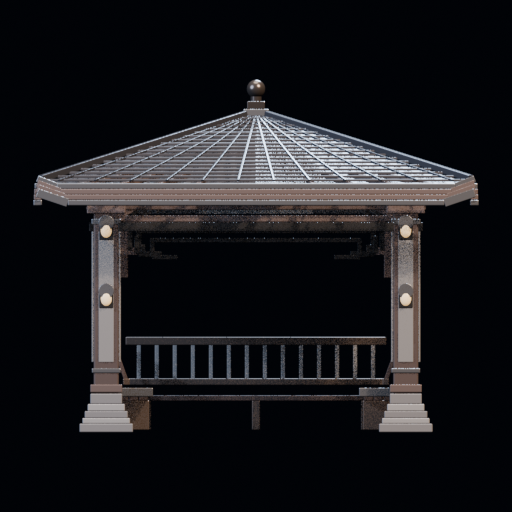
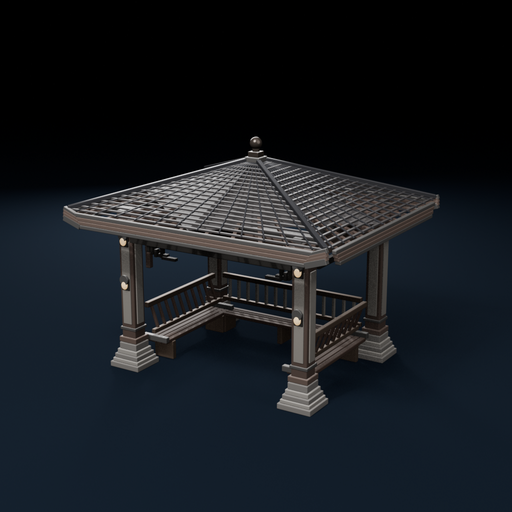
Update README and add new showcase images for enhanced representation
- Removed outdated showcase images for the Traditional Chinese Pavilion and Benben Robot.
- Added new showcase images for the City Bicycle, Quadcopter Drone, Spanish Colonial Townhouse, and Cozy Living Room.
- Revised layout in the README to accommodate new entries and improve visual clarity.

diff --git a/README.md b/README.md
@@ -48,28 +48,6 @@ compiled to a portable GLB by the ProcAgen3D pipeline.
       <strong>Audi Sport Quattro S1</strong>
     </td>
     <td align="center" width="33%">
-      <a href="assets/showcase/china-pavilion-reference.png">
-        <img src="assets/showcase/china-pavilion-reference.png" width="135" alt="Reference image of a traditional Chinese pavilion">
-      </a>
-      <a href="assets/showcase/china-pavilion.png">
-        <img src="assets/showcase/china-pavilion.png" width="135" alt="ProcAgen3D GLB render of a traditional Chinese pavilion">
-      </a><br>
-      <sub>Reference → ProcAgen3D GLB</sub><br>
-      <strong>Traditional Chinese Pavilion</strong>
-    </td>
-    <td align="center" width="33%">
-      <a href="assets/showcase/benben-robot-reference.png">
-        <img src="assets/showcase/benben-robot-reference.png" width="135" alt="Reference image of the Benben robot">
-      </a>
-      <a href="assets/showcase/benben-robot.png">
-        <img src="assets/showcase/benben-robot.png" width="135" alt="ProcAgen3D GLB render of the Benben robot">
-      </a><br>
-      <sub>Reference → ProcAgen3D GLB</sub><br>
-      <strong>Benben Robot</strong>
-    </td>
-  </tr>
-  <tr>
-    <td align="center" width="33%">
       <a href="assets/showcase/nissan-skyline-super-silhouette-reference.png">
         <img src="assets/showcase/nissan-skyline-super-silhouette-reference.png" width="135" alt="Reference image of a Nissan Skyline Super Silhouette race car">
       </a>
@@ -89,6 +67,8 @@ compiled to a portable GLB by the ProcAgen3D pipeline.
       <sub>Reference → ProcAgen3D GLB</sub><br>
       <strong>Pagani Huayra R</strong>
     </td>
+  </tr>
+  <tr>
     <td align="center" width="33%">
       <a href="assets/showcase/toyota-sr5-reference.png">
         <img src="assets/showcase/toyota-sr5-reference.png" width="135" alt="Reference image of a Toyota SR5 pickup with its hood open">
@@ -99,18 +79,6 @@ compiled to a portable GLB by the ProcAgen3D pipeline.
       <sub>Reference → ProcAgen3D GLB</sub><br>
       <strong>Toyota SR5</strong>
     </td>
-  </tr>
-  <tr>
-    <td align="center" width="33%">
-      <a href="assets/showcase/compact-carbine-reference.png">
-        <img src="assets/showcase/compact-carbine-reference.png" width="135" alt="Reference image of a compact carbine">
-      </a>
-      <a href="assets/showcase/compact-carbine.png">
-        <img src="assets/showcase/compact-carbine.png" width="135" alt="ProcAgen3D GLB render of a compact carbine">
-      </a><br>
-      <sub>Reference → ProcAgen3D GLB</sub><br>
-      <strong>Compact Carbine</strong>
-    </td>
     <td align="center" width="33%">
       <a href="assets/showcase/city-bicycle-reference.png">
         <img src="assets/showcase/city-bicycle-reference.png" width="135" alt="Reference image of a city bicycle with a wicker basket">
@@ -120,6 +88,70 @@ compiled to a portable GLB by the ProcAgen3D pipeline.
       </a><br>
       <sub>Reference → ProcAgen3D GLB</sub><br>
       <strong>City Bicycle</strong>
+    </td>
+    <td align="center" width="33%">
+      <a href="assets/showcase/quadcopter-drone-reference.png">
+        <img src="assets/showcase/quadcopter-drone-reference.png" width="135" alt="Reference image of a quadcopter drone">
+      </a>
+      <a href="assets/showcase/quadcopter-drone.png">
+        <img src="assets/showcase/quadcopter-drone.png" width="135" alt="ProcAgen3D GLB render of a quadcopter drone">
+      </a><br>
+      <sub>Reference → ProcAgen3D GLB</sub><br>
+      <strong>Quadcopter Drone</strong>
+    </td>
+  </tr>
+  <tr>
+    <td align="center" width="33%">
+      <a href="assets/showcase/china-pavilion-reference.png">
+        <img src="assets/showcase/china-pavilion-reference.png" width="135" alt="Reference image of a traditional Chinese pavilion">
+      </a>
+      <a href="assets/showcase/china-pavilion.png">
+        <img src="assets/showcase/china-pavilion.png" width="135" alt="ProcAgen3D GLB render of a traditional Chinese pavilion">
+      </a><br>
+      <sub>Reference → ProcAgen3D GLB</sub><br>
+      <strong>Traditional Chinese Pavilion</strong>
+    </td>
+    <td align="center" width="33%">
+      <a href="assets/showcase/spanish-colonial-townhouse-reference.png">
+        <img src="assets/showcase/spanish-colonial-townhouse-reference.png" width="135" alt="Reference image of a Spanish colonial townhouse">
+      </a>
+      <a href="assets/showcase/spanish-colonial-townhouse.png">
+        <img src="assets/showcase/spanish-colonial-townhouse.png" width="135" alt="ProcAgen3D GLB render of a Spanish colonial townhouse">
+      </a><br>
+      <sub>Reference → ProcAgen3D GLB</sub><br>
+      <strong>Spanish Colonial Townhouse</strong>
+    </td>
+    <td align="center" width="33%">
+      <a href="assets/showcase/cozy-living-room-reference.png">
+        <img src="assets/showcase/cozy-living-room-reference.png" width="135" alt="Reference image of a cozy living room set">
+      </a>
+      <a href="assets/showcase/cozy-living-room.png">
+        <img src="assets/showcase/cozy-living-room.png" width="135" alt="ProcAgen3D GLB render of a cozy living room set">
+      </a><br>
+      <sub>Reference → ProcAgen3D GLB</sub><br>
+      <strong>Cozy Living Room</strong>
+    </td>
+  </tr>
+  <tr>
+    <td align="center" width="33%">
+      <a href="assets/showcase/benben-robot-reference.png">
+        <img src="assets/showcase/benben-robot-reference.png" width="135" alt="Reference image of the Benben robot">
+      </a>
+      <a href="assets/showcase/benben-robot.png">
+        <img src="assets/showcase/benben-robot.png" width="135" alt="ProcAgen3D GLB render of the Benben robot">
+      </a><br>
+      <sub>Reference → ProcAgen3D GLB</sub><br>
+      <strong>Benben Robot</strong>
+    </td>
+    <td align="center" width="33%">
+      <a href="assets/showcase/compact-carbine-reference.png">
+        <img src="assets/showcase/compact-carbine-reference.png" width="135" alt="Reference image of a compact carbine">
+      </a>
+      <a href="assets/showcase/compact-carbine.png">
+        <img src="assets/showcase/compact-carbine.png" width="135" alt="ProcAgen3D GLB render of a compact carbine">
+      </a><br>
+      <sub>Reference → ProcAgen3D GLB</sub><br>
+      <strong>Compact Carbine</strong>
     </td>
     <td align="center" width="33%">
       <a href="assets/showcase/fujifilm-x-t3-reference.png">
@@ -140,10 +172,10 @@ The agent supplies design judgment and visual review; a deterministic,
 stdlib-only harness enforces the paper's pipeline around it:
 
 ```
-shape/pose/detail plan → reconstruction probe → synthesize program
-→ build + canonical renders (headless Blender)
+reconstruction plan → reconstruction probe → camera solve (image-conditioned)
+→ synthesize program → build + canonical renders (headless Blender)
 → registered local-silhouette + pose fit (image-conditioned) → deterministic checks
-→ agent-vision inspection → guarded repair loop (≤3)
+→ agent-vision inspection → guarded repair loop (complexity-scaled)
 → articulation validation → constraint scoring → deliver
 ```
 
@@ -151,9 +183,12 @@ Every stage is a CLI command with exit codes and grep-able
 `[PROCAGEN3D:OK|WARN|FAIL]` tags, so nothing depends on the agent's honesty:
 build errors, doctrine violations, broken joints, failed reference fits, and
 failed dimensional constraints are all caught mechanically. Semantic
-perception is agent vision by design — no learned depth/normal/edge models —
-while registered camera, whole/local masks, landmark, pose-chain, ratio, and
-layout gates verify visible projection offline.
+perception is agent vision by design — no learned depth/normal/edge models.
+Registered camera, mask, landmark, pose-chain, ratio, and layout gates verify
+visible projection; `CAMERA_SOLVE`, `SYMMETRY`, `DETACHED_PARTS`, `RIGID_AXIS`,
+and `SCENE_INTERPENETRATION` catch 3D faults a single view cannot see. Fit
+floors scale with the number of reference views, and a bounded single-view
+shortfall may ship as approximate with `limitations.md`.
 
 ## Repository layout
 
@@ -197,7 +232,10 @@ Entries are newest first.
   still stop, and integrity faults never qualify.
 - Scaled probe and repair budgets by complexity class, and documented Blender
   5.x / macOS Metal headless requirements.
-- Added city bicycle, compact carbine, and Fujifilm X-T3 showcase pairs.
+- Added city bicycle, compact carbine, Fujifilm X-T3, cozy living room,
+  quadcopter drone, and Spanish colonial townhouse showcase pairs; regrouped
+  the grid by category; and re-rendered the pavilion and townhouse in the
+  same studio-lit Eevee style as the other GLB stills.
 
 ### 0.2.0 — 2026-08-17
 
